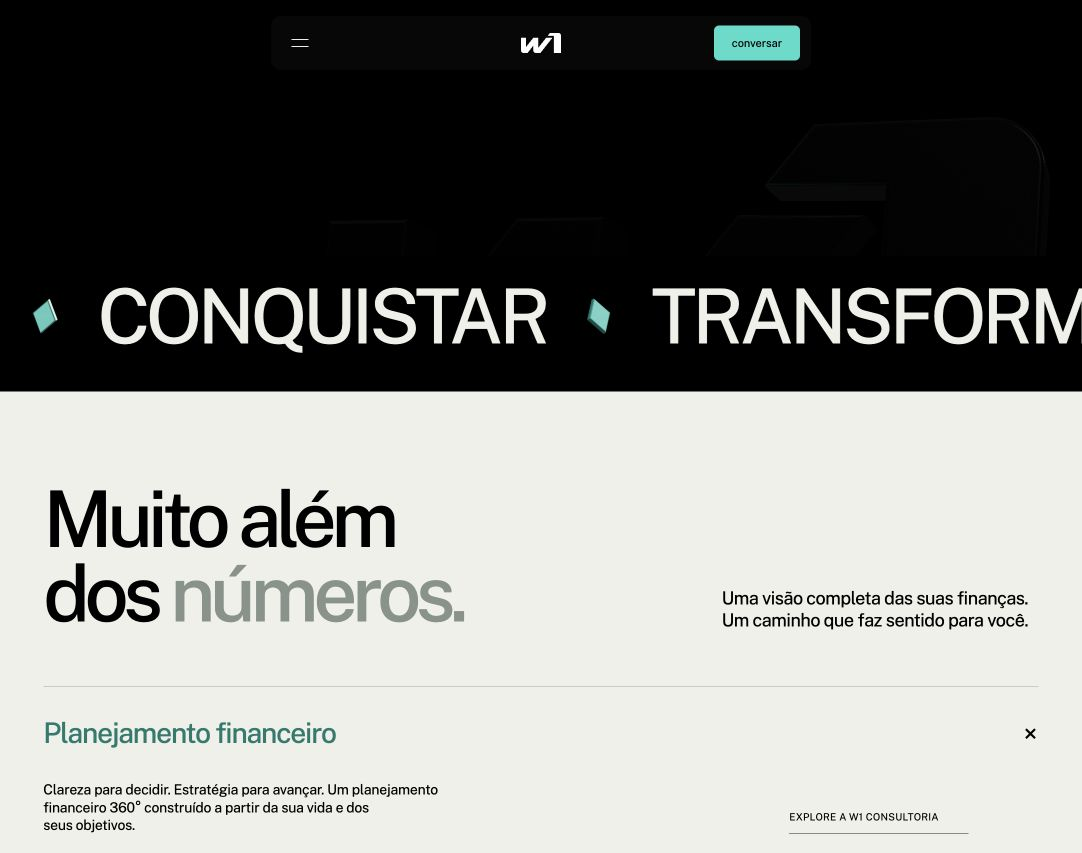
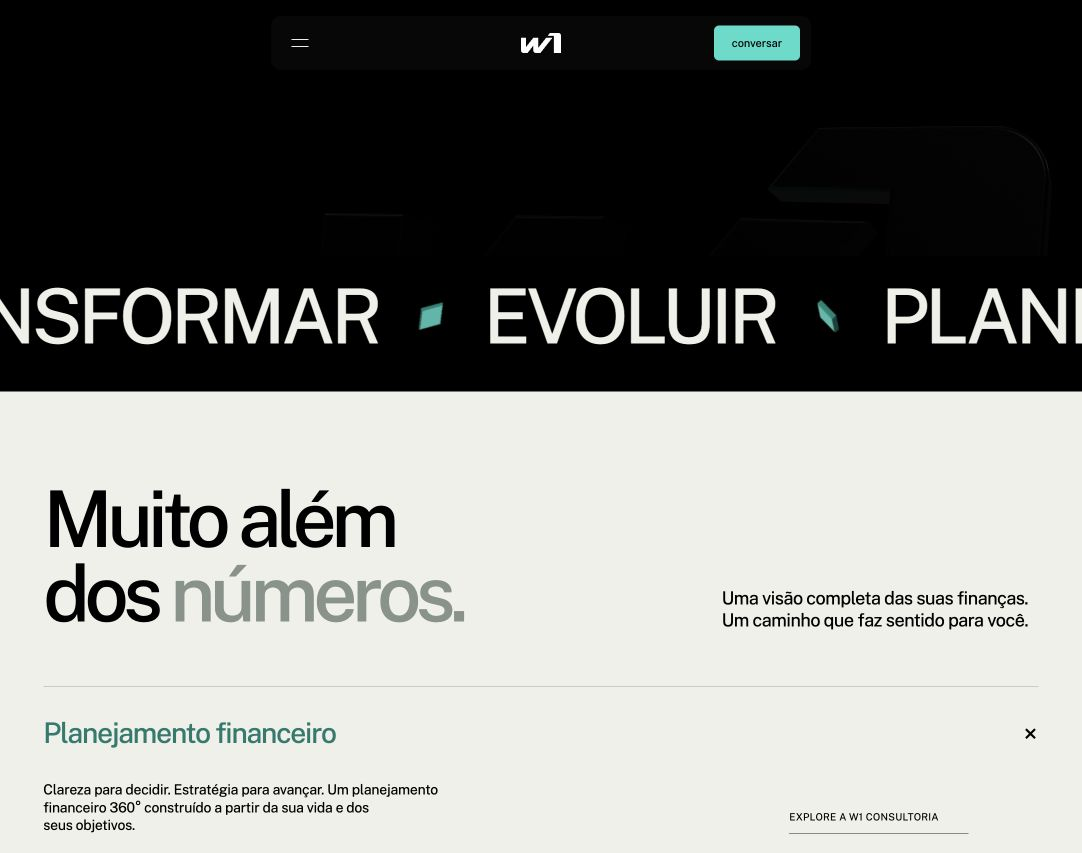
Update Site source

Changed region(s): [[0.0, 0.3353, 1.0, 0.4267]]

diff --git a/dist/app.js b/dist/app.js
@@ -7,6 +7,13 @@ const motionQuery = window.matchMedia('(prefers-reduced-motion: reduce)');
 const mobile = () => window.innerWidth <= 800;
 const state = { light: 0, turn: 0, size: 1, x: .85, y: 0, alpha: 1, pointerX: 0, pointerY: 0 };
 const pointer = { x: 0, y: 0 };
+const hero = document.querySelector('.hero');
+const raycaster = new THREE.Raycaster();
+const drag = { active: false, id: null, lastX: 0, lastY: 0, x: 0, y: 0, targetX: 0, targetY: 0 };
+let hoverDirty = false, pointerOverHero = false;
+let diamondSprites = [], marqueeVisible = false, marqueeAnimation;
+const marqueeTrack = document.querySelector('.marquee-track');
+const diamondFrames = 192, diamondColumns = 16, diamondRows = 12;
 const introRoot = document.documentElement;
 if (motionQuery.matches) introRoot.classList.remove('intro-pending');
 const startsWithLogo = introRoot.classList.contains('intro-pending');
@@ -77,9 +84,64 @@ function renderDiamondIcons(surface) {
   document.querySelectorAll('.marquee-icon[data-diamond]').forEach(image => { image.src = urls[Number(image.dataset.diamond)]; });
   cases[1].image = urls[1];
   cases[2].image = urls[2];
-  geometry.dispose();
-  face.dispose(); edge.dispose();
+  // A small atlas captures a real 360° turn. Sprite playback shares the
+  // marquee's CSS animation clock, keeping rotation tied to its travel.
+  const savedRatio = renderer.getPixelRatio();
+  try {
+    const tile = 64;
+    const atlas = document.createElement('canvas');
+    atlas.width = diamondColumns * tile;
+    atlas.height = diamondRows * tile;
+    const context = atlas.getContext('2d');
+    renderer.setPixelRatio(1);
+    renderer.setSize(tile, tile, false);
+    for (let frame = 0; frame < diamondFrames; frame++) {
+      const angle = frame / diamondFrames * Math.PI * 2;
+      diamond.rotation.set(.25 + Math.sin(angle) * .1, angle, 0);
+      renderer.render(iconScene, iconCamera);
+      context.drawImage(renderer.domElement, frame % diamondColumns * tile, Math.floor(frame / diamondColumns) * tile, tile, tile);
+    }
+    const atlasUrl = atlas.toDataURL('image/webp', .96);
+    const tilts = [-.22, .38, .75, -.55];
+    diamondSprites = [...document.querySelectorAll('.marquee-icon[data-diamond]')].map(image => {
+      const pose = Number(image.dataset.diamond);
+      const sprite = document.createElement('span');
+      sprite.className = image.className + ' diamond-sprite';
+      sprite.dataset.diamond = pose;
+      sprite.setAttribute('aria-hidden', 'true');
+      sprite.style.backgroundImage = `url("${atlasUrl}")`;
+      sprite.style.transform = `rotate(${tilts[pose]}rad)`;
+      image.replaceWith(sprite);
+      return { element: sprite, offset: pose * diamondFrames / 4, staticFrame: [5, 25, 90, 115][pose], frame: -1 };
+    });
+    updateDiamondFrames();
+  } finally {
+    renderer.setPixelRatio(savedRatio);
+    geometry.dispose();
+    face.dispose(); edge.dispose();
+  }
 }
+
+function updateDiamondFrames() {
+  if (!diamondSprites.length || !marqueeVisible || document.hidden) return;
+  if (!marqueeAnimation || marqueeAnimation.playState === 'idle') marqueeAnimation = marqueeTrack.getAnimations()[0];
+  const elapsed = Number(marqueeAnimation?.currentTime ?? 0);
+  const duration = Number(marqueeAnimation?.effect.getTiming().duration ?? 46000);
+  // Eight full rotations per complete pass; the loop joins without a jump.
+  const base = motionQuery.matches ? 0 : Math.floor(elapsed / duration * diamondFrames * 8);
+  for (const sprite of diamondSprites) {
+    const frame = motionQuery.matches ? sprite.staticFrame : (base + sprite.offset) % diamondFrames;
+    if (frame === sprite.frame) continue;
+    sprite.frame = frame;
+    const x = frame % diamondColumns / (diamondColumns - 1) * 100;
+    const y = Math.floor(frame / diamondColumns) / (diamondRows - 1) * 100;
+    sprite.element.style.backgroundPosition = `${x}% ${y}%`;
+  }
+}
+new IntersectionObserver(([entry]) => {
+  marqueeVisible = entry.isIntersecting;
+  if (marqueeVisible) updateDiamondFrames();
+}, { rootMargin: '80px' }).observe(document.querySelector('.marquee'));
 
 function revealInterface() {
   introRoot.classList.remove('intro-pending');
@@ -208,12 +270,17 @@ function tick() {
   animationFrame = requestAnimationFrame(tick);
   if (!isVisible || document.hidden || !logo) return;
   const reduced = motionQuery.matches;
-  state.pointerX += ((reduced ? 0 : pointer.x) - state.pointerX) * .055;
-  state.pointerY += ((reduced ? 0 : pointer.y) - state.pointerY) * .055;
+  updateDiamondFrames();
+  state.pointerX += ((reduced ? 0 : pointer.x) - state.pointerX) * .09;
+  state.pointerY += ((reduced ? 0 : pointer.y) - state.pointerY) * .09;
+  const dragEase = reduced ? 1 : drag.active ? .2 : .055;
+  drag.x += (drag.targetX - drag.x) * dragEase;
+  drag.y += (drag.targetY - drag.y) * dragEase;
   const fitScale = mobile() ? Math.min(1, camera.aspect * 1.06) : Math.min(1.065, camera.aspect * .907);
   const enter = reduced ? 1 : arrival.progress;
   const intro = 1 - enter;
-  logo.rotation.set(-.16 + state.turn*.04 + state.pointerY*.08, -.34 - state.turn*.1 + state.pointerX*.12, -.11 + state.turn*.025);
+  const hoverWeight = drag.active ? .35 : 1;
+  logo.rotation.set(-.16 + state.turn*.04 + state.pointerY*.18*hoverWeight + drag.y, -.34 - state.turn*.1 + state.pointerX*.28*hoverWeight + drag.x, -.11 + state.turn*.025);
   logo.position.set(mobile() ? 0 : state.x * enter, (.35 + state.y) * enter, 0);
   logo.scale.setScalar(fitScale * state.size * (1 + intro * .28));
   const progress = reduced ? .15 : state.light;
@@ -223,14 +290,60 @@ function tick() {
   greenSoftbox.intensity = (18 + Math.sin(progress * Math.PI) * 12) * enter * enter;
   renderer.domElement.style.opacity = String(.78 * state.alpha * arrival.reveal);
   renderer.render(scene, camera);
+  if (hoverDirty && !drag.active) {
+    hero.classList.toggle('logo-hovered', pointerOverHero && hitsLogo());
+    hoverDirty = false;
+  }
 }
 
 window.addEventListener('resize', resize, { passive: true });
+function hitsLogo(event) {
+  if (!logo || !renderer || arrival.progress < .99 || !document.body.classList.contains('webgl-ready')) return false;
+  const rect = stage.getBoundingClientRect();
+  const x = event ? (event.clientX - rect.left) / rect.width * 2 - 1 : pointer.x;
+  const y = event ? -(event.clientY - rect.top) / rect.height * 2 + 1 : -pointer.y;
+  raycaster.setFromCamera(new THREE.Vector2(x, y), camera);
+  return raycaster.intersectObject(logo, true).length > 0;
+}
+function endLogoDrag() {
+  if (!drag.active) return;
+  const pointerId = drag.id;
+  drag.active = false;
+  drag.id = null;
+  if (hero.hasPointerCapture(pointerId)) hero.releasePointerCapture(pointerId);
+  drag.targetX = drag.targetY = 0;
+  hero.classList.remove('is-dragging');
+  hoverDirty = true;
+}
+hero.addEventListener('pointerdown', event => {
+  if (event.button !== 0 || event.pointerType === 'touch' || event.target.closest('a,button,input,summary,dialog') || !hitsLogo(event)) return;
+  drag.active = true;
+  drag.id = event.pointerId;
+  drag.lastX = event.clientX;
+  drag.lastY = event.clientY;
+  hero.setPointerCapture(event.pointerId);
+  hero.classList.add('is-dragging');
+  event.preventDefault();
+});
 window.addEventListener('pointermove', event => {
   pointer.x = (event.clientX / innerWidth - .5) * 2;
   pointer.y = (event.clientY / innerHeight - .5) * 2;
+  pointerOverHero = Boolean(event.target.closest('.hero')) && !event.target.closest('a,button,input');
+  hoverDirty = true;
+  if (drag.active && event.pointerId === drag.id) {
+    drag.targetX = THREE.MathUtils.clamp(drag.targetX + (event.clientX - drag.lastX) * .0085, -1.25, 1.25);
+    drag.targetY = THREE.MathUtils.clamp(drag.targetY + (event.clientY - drag.lastY) * .006, -.7, .7);
+    drag.lastX = event.clientX;
+    drag.lastY = event.clientY;
+  }
 }, { passive: true });
-window.addEventListener('pointerout', event => { if (!event.relatedTarget) pointer.x = pointer.y = 0; });
+window.addEventListener('pointerup', endLogoDrag);
+window.addEventListener('pointercancel', endLogoDrag);
+hero.addEventListener('lostpointercapture', endLogoDrag);
+window.addEventListener('blur', endLogoDrag);
+window.addEventListener('pointerout', event => {
+  if (!event.relatedTarget) { pointer.x = pointer.y = 0; pointerOverHero = false; hoverDirty = true; }
+});
 new IntersectionObserver(entries => { isVisible = entries[0].isIntersecting; }, { rootMargin: '100px' }).observe(document.querySelector('.dark-journey'));
 createLogo();
 

diff --git a/dist/index.html b/dist/index.html
@@ -8,14 +8,14 @@
   <title>W1 — Seu futuro em movimento</title>
   <link rel="icon" href="./assets/w1.svg" type="image/svg+xml">
   <link rel="preload" href="./assets/fonts/PublicSans-Latin.woff2" as="font" type="font/woff2" crossorigin>
-  <link rel="stylesheet" href="./style.css?v=9">
-  <link rel="stylesheet" href="./layout.css?v=9">
-  <link rel="stylesheet" href="./typography.css?v=9">
+  <link rel="stylesheet" href="./style.css?v=10">
+  <link rel="stylesheet" href="./layout.css?v=10">
+  <link rel="stylesheet" href="./typography.css?v=10">
   <script>if(!matchMedia('(prefers-reduced-motion: reduce)').matches&&!location.hash){document.documentElement.classList.add('intro-pending');setTimeout(()=>document.documentElement.classList.remove('intro-pending'),6000);}</script>
   <script type="importmap">{"imports":{"three":"./assets/vendor/three.module.js"}}</script>
   <script defer src="./assets/vendor/gsap.min.js"></script>
   <script defer src="./assets/vendor/ScrollTrigger.min.js"></script>
-  <script type="module" src="./app.js?v=9"></script>
+  <script type="module" src="./app.js?v=10"></script>
 </head>
 <body>
 

diff --git a/dist/layout.css b/dist/layout.css
@@ -179,3 +179,7 @@ html.intro-pending .case-card-shell{opacity:0!important;visibility:hidden!import
 .marquee-icon{width:clamp(40px,4.5vw,64px);height:clamp(40px,4.5vw,64px);margin:0 clamp(18px,2.6vw,42px)}
 @media(max-width:800px){.marquee-icon{width:42px;height:42px;margin:0 20px}}
 @media(max-width:500px){.marquee-icon{width:36px;height:36px;margin:0 17px}}
+
+/* A real 360° turn sampled from the marquee's own animation clock. */
+.diamond-sprite{background-repeat:no-repeat;background-size:1600% 1200%;background-position:0 0;transform-origin:center}
+.hero.logo-hovered{cursor:grab}.hero.is-dragging{cursor:grabbing;user-select:none;-webkit-user-select:none}

diff --git a/README.md b/README.md
@@ -12,19 +12,20 @@ python3 -m http.server 4184 --directory dist
 
 Acesse http://localhost:4184. O site usa HTML/JS estático. Fontes e scripts são locais. Os mapas licenciados precisam ser preparados uma vez antes de rodar a partir de um clone; sem eles, o logo mantém um material preto de fallback.
 
-## Revisão 08
+## Revisão 09
 
 - A abertura mostra primeiro apenas o logo sobre preto. Ele diminui até a posição final e, depois, textos e navegação entram suavemente, sem contador ou indicador de progresso.
 - O objeto usa o material Poliigon Metal Painted Matte 7037 fornecido pelo usuário: mapas reais de cor, normal, oclusão, metal e rugosidade. A superfície permanece preta com relevo fino; bevels e laterais recebem a luz verde.
 - A iluminação usa a mesma cor da interface (`#32ddc9`) e percorre o perímetro no scroll. O miolo permanece predominantemente preto.
 - Fundo preto puro, sem granulação nem iluminação de fundo. O degradê escuro que cobria o logo atrás do manifesto foi removido.
 - W central ampliado em aproximadamente 12% na composição desktop, com faces mais escuras e transparência para se integrar ao fundo.
-- Marquee com pequenos losangos em quatro rotações diferentes: faces predominantemente verdes e laterais mais escuras. Os previews usam os mesmos mapas de normal, rugosidade, metal e oclusão do W, com o pigmento alterado para o verde da interface. São renderizados uma vez no mesmo contexto WebGL e exibidos como imagens.
+- Marquee com pequenos losangos em quatro rotações diferentes: faces predominantemente verdes e laterais mais escuras. Os previews usam os mesmos mapas de normal, rugosidade, metal e oclusão do W, com o pigmento alterado para o verde da interface. Um atlas de 192 vistas 3D é renderizado no mesmo contexto WebGL. A rotação acompanha o relógio do marquee, com oito voltas por passagem e fases diferentes entre as peças. O movimento respeita a preferência por movimento reduzido e só atualiza os ícones próximos à área visível.
 - Tipografia editorial com entrelinhas mais fechadas, parágrafos de apoio maiores e compactos, medidas controladas e alguns apoios em caixa alta.
 - Passagem direta da abertura para o manifesto, seguida do marquee sem divisória superior.
 - Grid editorial para a diagramação, com apoios visuais discretos e sem numerações decorativas.
 - Header que se condensa em uma barra central flutuante, com blur, sem borda e com cantos discretos: menu à esquerda, logo ao centro e CTA “conversar” à direita.
 - Card horizontal preto translúcido no canto inferior direito, alinhado ao grid, com três cases fictícios. Alternância suave, seleção manual, pausa e diálogo correspondente a cada conteúdo. A alternância pausa com foco, hover, diálogo aberto ou card fora da tela.
+- W mais responsivo ao mouse, com suavização mais rápida e cerca do dobro de amplitude no hover. Clicar e arrastar a própria geometria permite uma rotação maior; ao soltar, ele se recompõe suavemente. Os controles e o scroll de toque permanecem independentes.
 - Interface sem setas e com menos elementos decorativos.
 - Layout responsivo, navegação interna, acordeões, links oficiais, movimento reduzido e fallback vetorial. A abertura tem uma saída de segurança caso os recursos não carreguem.
 
